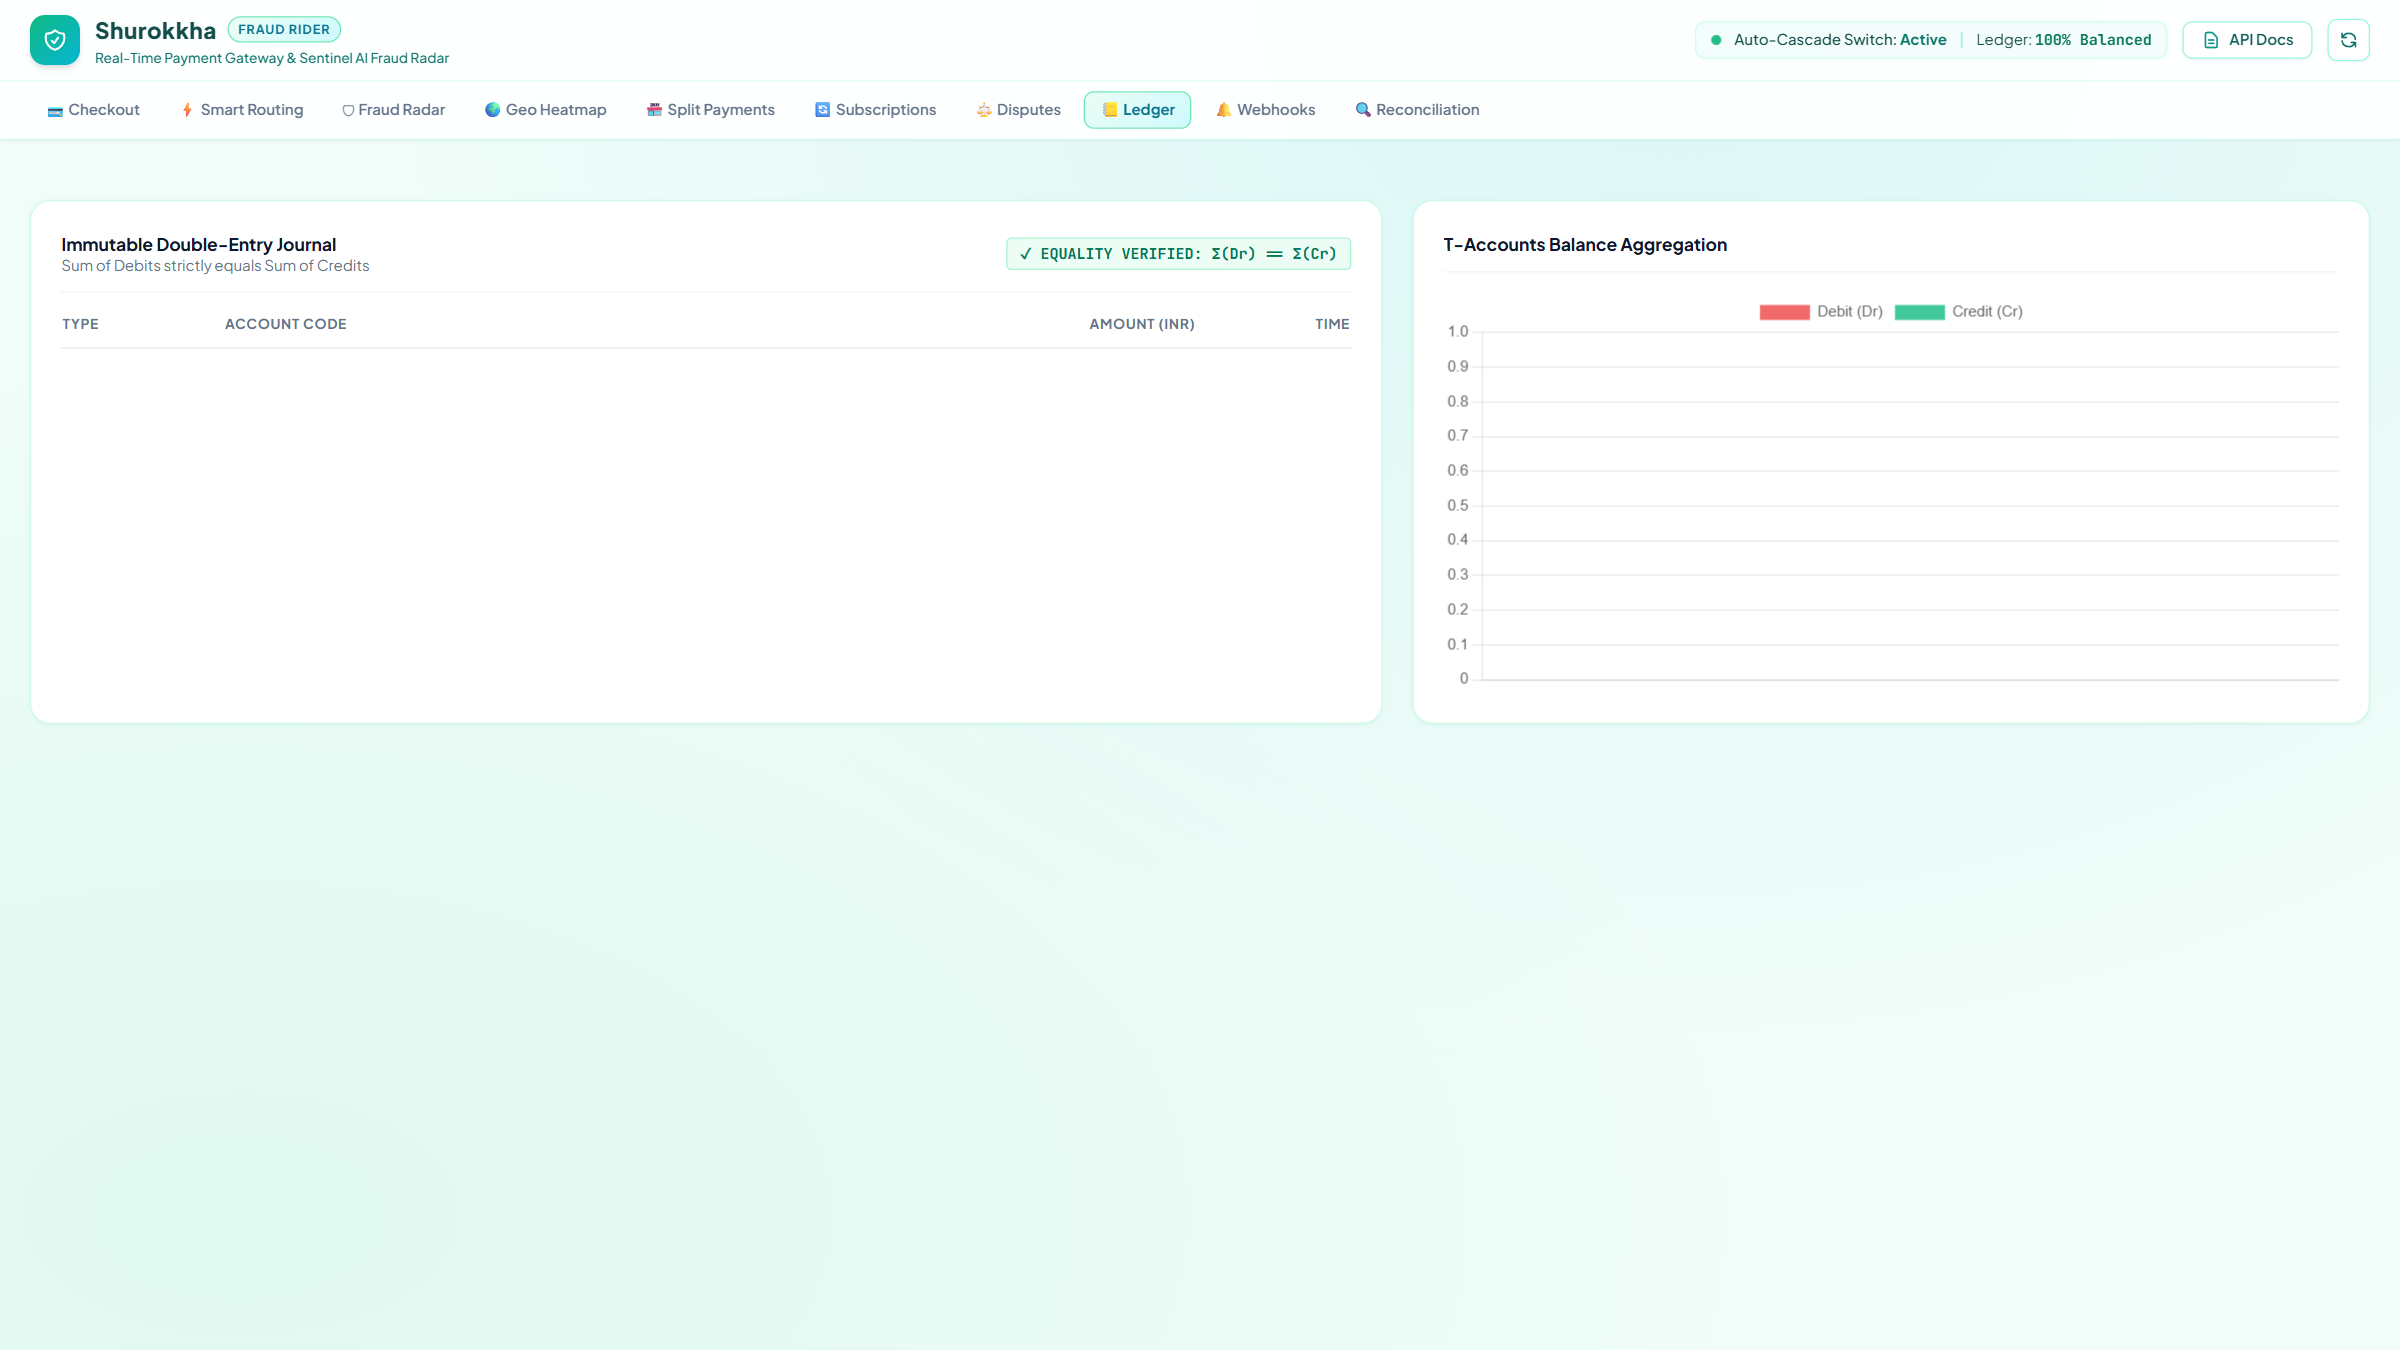
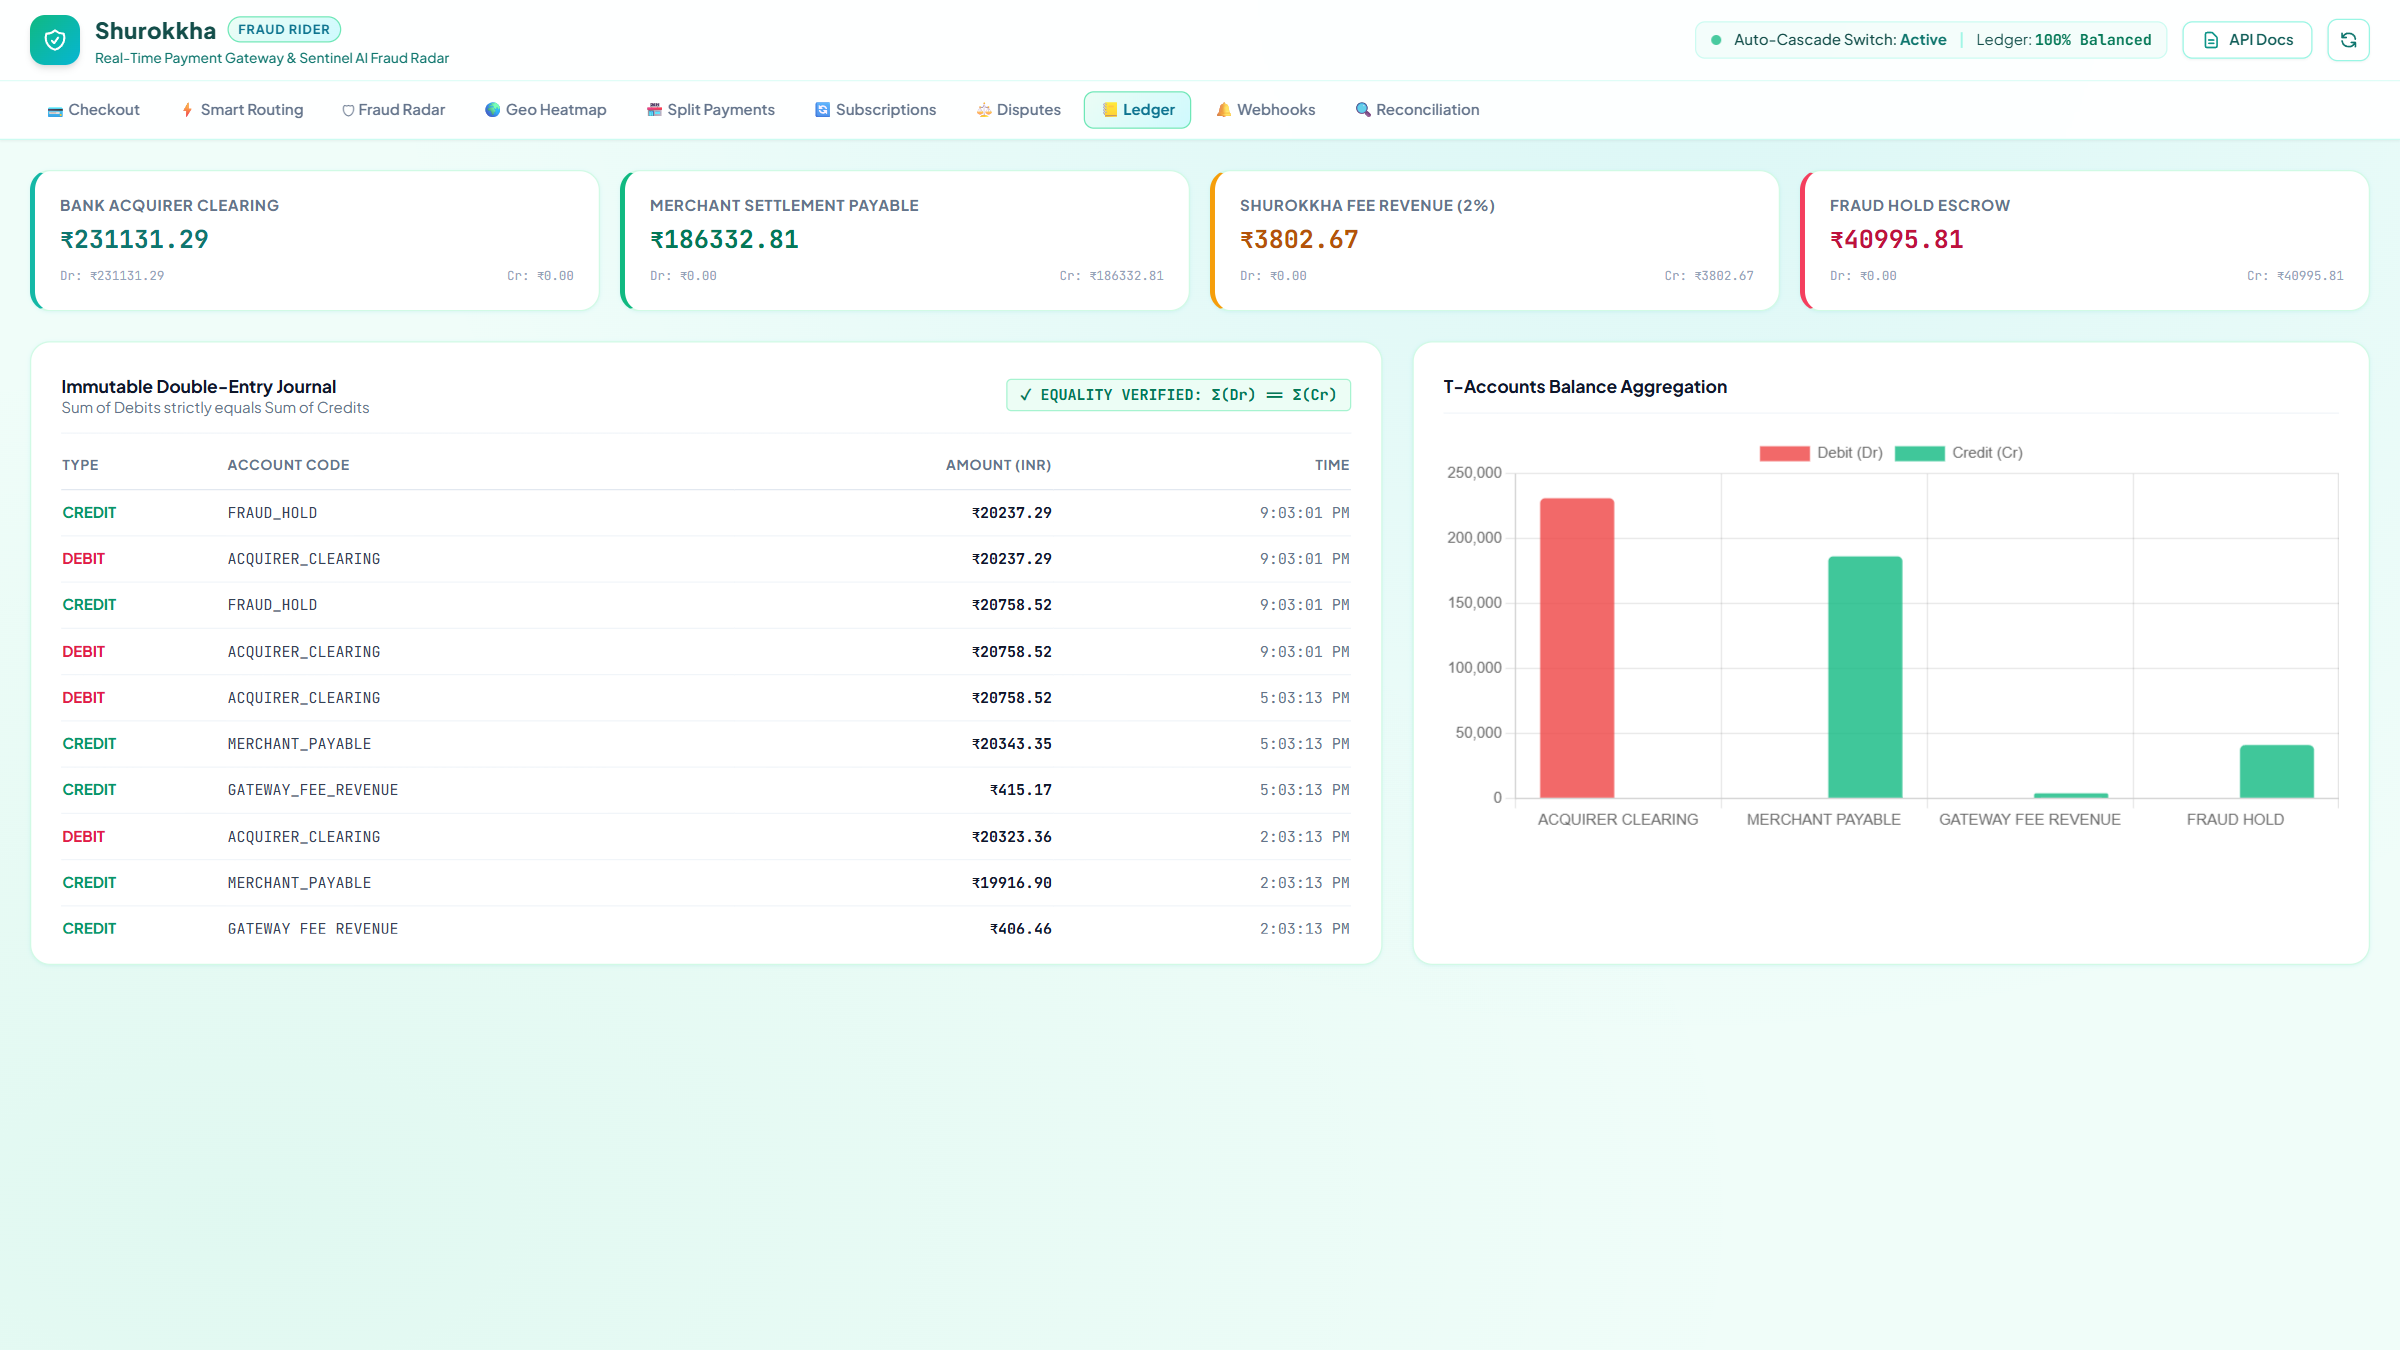
feat(data & ui): seed full 10 modules data and regenerate high-resolution screenshots with live charts and full records

diff --git a/backend/app/core/database.py b/backend/app/core/database.py
@@ -2,7 +2,9 @@ from sqlalchemy import create_engine, event
 from sqlalchemy.orm import sessionmaker, declarative_base
 import os
 
-DB_URL = os.getenv("DB_URL", "sqlite:///./shurokkha.db")
+_backend_dir = os.path.abspath(os.path.join(os.path.dirname(__file__), "..", ".."))
+_default_db = os.path.join(_backend_dir, "shurokkha.db").replace("\\", "/")
+DB_URL = os.getenv("DB_URL", f"sqlite:///{_default_db}")
 
 # Engine with WAL mode and foreign key enforcement
 connect_args = {"check_same_thread": False} if "sqlite" in DB_URL else {}
